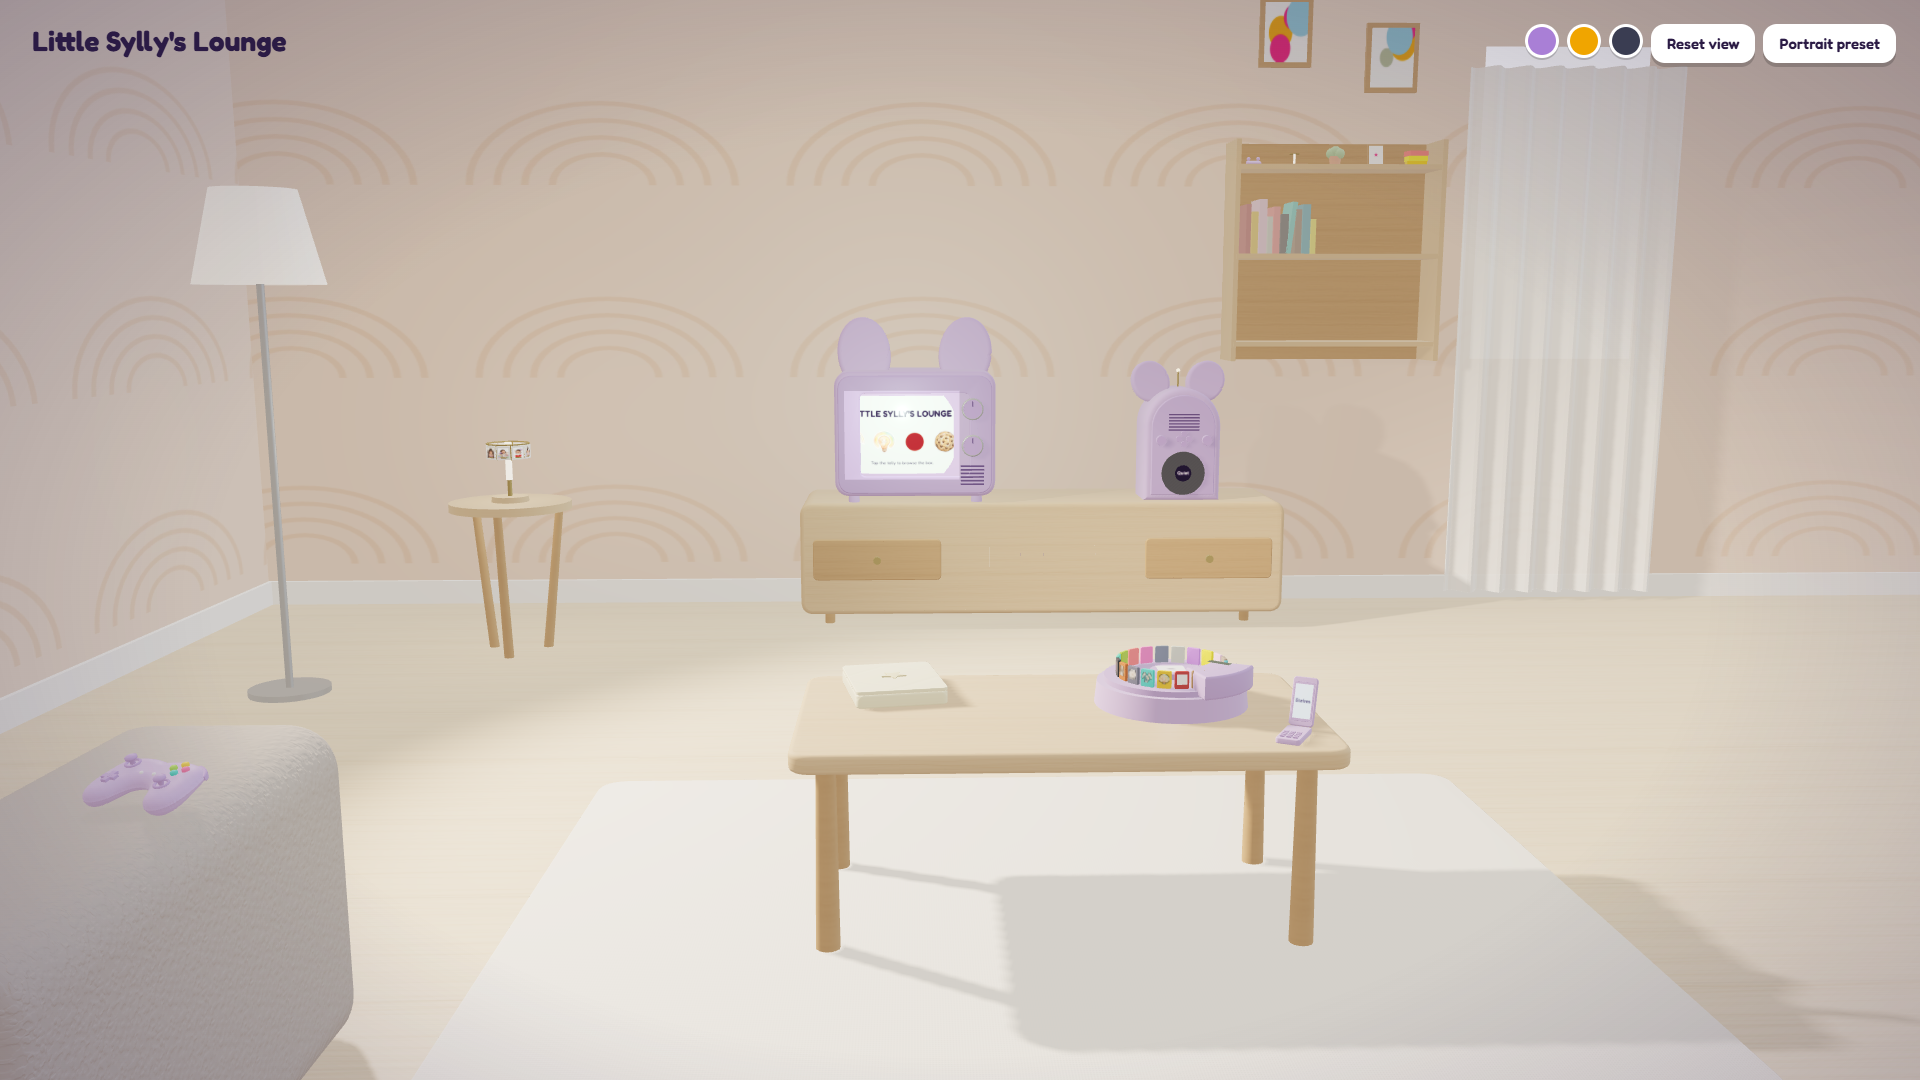
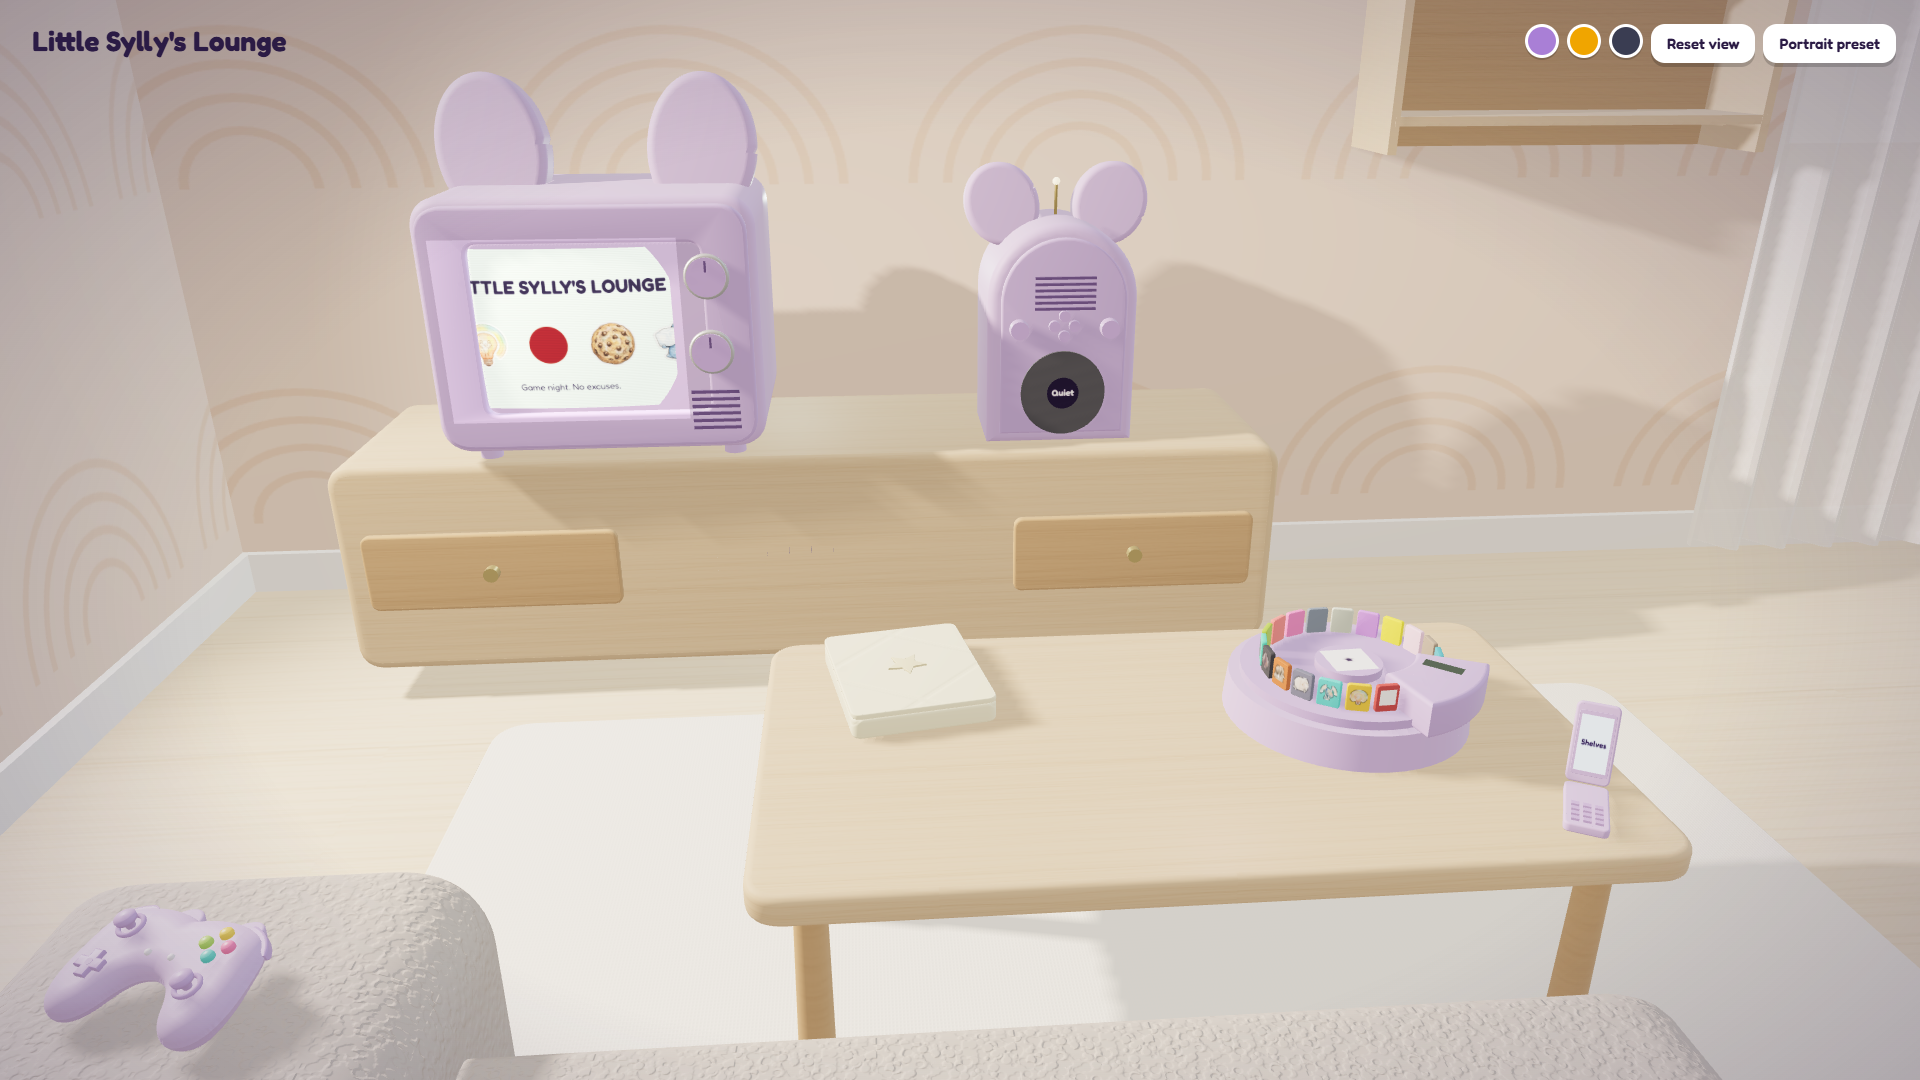
feat(premium): re-block step 1 — compress the room, seat the camera, add the couch seat
The room is now a corner (back wall -1.55, left wall -1.6) with the bench
a metre behind a table that sits right of centre, seen from a seated
camera just behind the table's near edge. Adds the seat cushion the arm
belongs to, so the controller is at our elbow rather than floating.

Also fixes a real reduced-motion bug the new framing exposed: the
hover-OUT tween was unguarded, so un-hovering travelled with the setting
on. The harness only caught it once a prop sat under its first pointer
position.

308 Node checks, 12 visual checks, all green.

diff --git a/wip/premium/prm-room.js b/wip/premium/prm-room.js
@@ -9,7 +9,10 @@
   function prmBuildRoom(lib) {
     const { THREE, mats, tex } = lib;
     const moulded = lib.moulded.bind(lib);
-    const R = { floorY: 0, backZ: -3.0, leftX: -3.0, benchZ: -2.55, benchTopY: 0.52, tableTopY: 0.44, armTopY: 0.58, sideTableTopY: 0.565 };
+    /* The re-block (spec 2026-09-19 § 3.1): a corner about 3.2 m wide and 1.9 m
+       deep, the bench a metre behind a table that sits right of centre, and a
+       seat we are sitting on. Every prop reads its surface from here. */
+    const R = { floorY: 0, backZ: -1.55, leftX: -1.6, benchZ: -1.15, benchTopY: 0.52, tableTopY: 0.44, tableX: 0.35, tableZ: 0.05, armTopY: 0.58, seatTopY: 0.47, sideTableTopY: 0.565 };
     const g = new THREE.Group(); g.name = 'room';
     const add = (name, geo, mat, pos, rot, o = {}) => {
       const m = new THREE.Mesh(geo, mat); m.name = name; m.position.set(pos[0], pos[1], pos[2]);
@@ -18,31 +21,32 @@
     };
     const FLAT = [-Math.PI / 2, 0, 0];   // a moulded slab extrudes along z; this lays it on the floor
 
-    // walls + trim
-    add('wallBack', new THREE.PlaneGeometry(8, 3.2), mats.wall, [0.5, 1.6, R.backZ]);
-    add('wallLeft', new THREE.PlaneGeometry(8, 3.2), mats.wall, [R.leftX, 1.6, -0.2], [0, Math.PI / 2, 0]);
-    add('skirtingBack', new THREE.BoxGeometry(8, 0.1, 0.02), mats.skirting, [0.5, 0.05, R.backZ + 0.01]);
-    add('skirtingLeft', new THREE.BoxGeometry(0.02, 0.1, 8), mats.skirting, [R.leftX + 0.01, 0.05, -0.2]);
-    add('cornice', new THREE.BoxGeometry(8, 0.06, 0.04), mats.skirting, [0.5, 3.17, R.backZ + 0.02]);
+    // walls + trim — the planes overhang the frame; the cornice is the one line that says "room" at the top
+    add('wallBack', new THREE.PlaneGeometry(5.6, 3.2), mats.wall, [0.0, 1.6, R.backZ]);
+    add('wallLeft', new THREE.PlaneGeometry(4.0, 3.2), mats.wall, [R.leftX, 1.6, 0.0], [0, Math.PI / 2, 0]);
+    add('skirtingBack', new THREE.BoxGeometry(5.6, 0.1, 0.02), mats.skirting, [0.0, 0.05, R.backZ + 0.01]);
+    add('skirtingLeft', new THREE.BoxGeometry(0.02, 0.1, 4.0), mats.skirting, [R.leftX + 0.01, 0.05, 0.0]);
+    add('cornice', new THREE.BoxGeometry(5.6, 0.06, 0.04), mats.skirting, [0.0, 3.17, R.backZ + 0.02]);
     add('floor', new THREE.PlaneGeometry(9, 9), mats.floor, [0.5, 0, 0.5], FLAT);
 
-    // rug — receives every table prop's contact shadow
-    add('rug', moulded(2.3, 1.7, 0.012, 0.08, { bevel: 0.004 }), mats.rug, [0.1, 0.006, 0.35], FLAT);
+    // rug — receives every table prop's contact shadow (round in Task 3)
+    add('rug', moulded(2.3, 1.7, 0.012, 0.08, { bevel: 0.004 }), mats.rug, [R.tableX, 0.006, R.tableZ], FLAT);
 
-    // coffee table (top surface = tableTopY)
-    add('tableTop', moulded(1.1, 0.62, 0.04, 0.05), mats.birch, [0.1, R.tableTopY - 0.02, 0.35], FLAT, { cast: true });
+    // coffee table (top surface = tableTopY), right of centre so it is not stacked under the telly
+    add('tableTop', moulded(1.1, 0.62, 0.04, 0.05), mats.birch, [R.tableX, R.tableTopY - 0.02, R.tableZ], FLAT, { cast: true });
     [[-0.48, 0.22], [0.48, 0.22], [-0.48, -0.22], [0.48, -0.22]].forEach(([x, z], i) =>
-      add('tableLeg' + i, new THREE.CylinderGeometry(0.02, 0.025, 0.4, 16), mats.birchDark, [0.1 + x, 0.2, 0.35 + z], null, { cast: true }));
+      add('tableLeg' + i, new THREE.CylinderGeometry(0.02, 0.025, 0.4, 16), mats.birchDark, [R.tableX + x, 0.2, R.tableZ + z], null, { cast: true }));
 
-    // TV bench: body spans y 0.08..0.52, sits on two short legs; the deck lives in the open middle
-    add('bench', moulded(1.9, 0.44, 0.46, 0.05), mats.birch, [0.3, 0.30, R.benchZ], null, { cast: true });
-    add('benchDrawerL', moulded(0.5, 0.16, 0.02, 0.02), mats.birchDark, [-0.35, 0.30, R.benchZ + 0.235]);
-    add('benchDrawerR', moulded(0.5, 0.16, 0.02, 0.02), mats.birchDark, [0.95, 0.30, R.benchZ + 0.235]);
-    add('benchKnobL', new THREE.CylinderGeometry(0.015, 0.015, 0.02, 16), mats.brass, [-0.35, 0.30, R.benchZ + 0.255], [Math.PI / 2, 0, 0]);
-    add('benchKnobR', new THREE.CylinderGeometry(0.015, 0.015, 0.02, 16), mats.brass, [0.95, 0.30, R.benchZ + 0.255], [Math.PI / 2, 0, 0]);
-    [-0.55, 1.15].forEach((x, i) => add('benchLeg' + i, new THREE.CylinderGeometry(0.02, 0.02, 0.08, 12), mats.birchDark, [x, 0.04, R.benchZ]));
-    add('deck', moulded(0.42, 0.1, 0.3, 0.015), mats.cream, [0.3, 0.30, R.benchZ + 0.06], null, { cast: true });
-    for (let i = 0; i < 4; i++) add('deckKey' + i, new THREE.BoxGeometry(0.03, 0.012, 0.02), mats.plum, [0.18 + i * 0.045, 0.315, R.benchZ + 0.215]);
+    // TV bench: body spans y 0.08..0.52 on two short legs; the deck lives in the open middle. Slightly LEFT of centre (the table is right)
+    const BX = -0.15;
+    add('bench', moulded(1.9, 0.44, 0.46, 0.05), mats.birch, [BX, 0.30, R.benchZ], null, { cast: true });
+    add('benchDrawerL', moulded(0.5, 0.16, 0.02, 0.02), mats.birchDark, [BX - 0.65, 0.30, R.benchZ + 0.235]);
+    add('benchDrawerR', moulded(0.5, 0.16, 0.02, 0.02), mats.birchDark, [BX + 0.65, 0.30, R.benchZ + 0.235]);
+    add('benchKnobL', new THREE.CylinderGeometry(0.015, 0.015, 0.02, 16), mats.brass, [BX - 0.65, 0.30, R.benchZ + 0.255], [Math.PI / 2, 0, 0]);
+    add('benchKnobR', new THREE.CylinderGeometry(0.015, 0.015, 0.02, 16), mats.brass, [BX + 0.65, 0.30, R.benchZ + 0.255], [Math.PI / 2, 0, 0]);
+    [BX - 0.85, BX + 0.85].forEach((x, i) => add('benchLeg' + i, new THREE.CylinderGeometry(0.02, 0.02, 0.08, 12), mats.birchDark, [x, 0.04, R.benchZ]));
+    add('deck', moulded(0.42, 0.1, 0.3, 0.015), mats.cream, [BX, 0.30, R.benchZ + 0.06], null, { cast: true });
+    for (let i = 0; i < 4; i++) add('deckKey' + i, new THREE.BoxGeometry(0.03, 0.012, 0.02), mats.plum, [BX - 0.12 + i * 0.045, 0.315, R.benchZ + 0.215]);
 
     // bookshelf unit, wall-mounted right of the bench; books + trinkets are props (prmBuildShelf)
     const S = { x: 1.55, w: 0.85, d: 0.22, ys: [1.12, 1.48, 1.84], side: 0.02 }; S.z = R.backZ + S.d / 2;
@@ -57,8 +61,10 @@
       add('sideTableLeg' + i, new THREE.CylinderGeometry(0.015, 0.018, 0.55, 12), mats.birchDark,
           [-1.7 + Math.sin(a) * 0.15, 0.27, -2.1 + Math.cos(a) * 0.15], [Math.cos(a) * 0.12, 0, -Math.sin(a) * 0.12]); });
 
-    // couch arm, front plane, bottom-left, partly out of frame (top surface = armTopY)
-    add('couchArm', moulded(0.4, 0.58, 0.95, 0.09), mats.fabric, [-1.4, R.armTopY - 0.29, 1.35], null, { cast: true });
+    // the couch we are sitting on: a seat cushion along the bottom of frame (top = seatTopY) and the arm
+    // it belongs to, left of the table, reaching ahead of the seat so its front shows bottom-left
+    add('seat', moulded(1.3, 0.47, 1.0, 0.09), mats.fabric, [0.07, R.seatTopY - 0.235, 1.08], null, { cast: true });
+    add('couchArm', moulded(0.4, 0.58, 0.95, 0.09), mats.fabric, [-0.62, R.armTopY - 0.29, 0.925], null, { cast: true });
 
     // window (the cool fill's visible source) + the wavy curtain in front of it
     add('window', new THREE.PlaneGeometry(0.7, 1.3), mats.window, [2.55, 1.7, R.backZ + 0.005]);

diff --git a/wip/premium/verify-prm-props.js b/wip/premium/verify-prm-props.js
@@ -90,7 +90,7 @@ eq(room.name, 'room', 'room group is named');
 const roomNames = new Set(); room.traverse(o => { if (o.name) roomNames.add(o.name); });
 ['wallBack', 'wallLeft', 'skirtingBack', 'skirtingLeft', 'cornice', 'floor', 'rug', 'tableTop', 'tableLeg0', 'tableLeg3',
  'bench', 'benchDrawerL', 'benchDrawerR', 'benchKnobL', 'benchKnobR', 'deck', 'deckKey3', 'shelfBack', 'shelfSideL', 'shelfSideR',
- 'shelfBoard0', 'shelfBoard1', 'shelfBoard2', 'sideTableTop', 'sideTableLeg2', 'couchArm', 'window', 'curtain',
+ 'shelfBoard0', 'shelfBoard1', 'shelfBoard2', 'sideTableTop', 'sideTableLeg2', 'couchArm', 'seat', 'window', 'curtain',
  'floorLampBase', 'floorLampStem', 'floorLampShade', 'printA', 'printAFace', 'printB', 'printBFace']
   .forEach(n => ok(roomNames.has(n), `room has ${n}`));
 {
@@ -99,14 +99,24 @@ const roomNames = new Set(); room.traverse(o => { if (o.name) roomNames.add(o.na
   const rug = room.getObjectByName('rug'); ok(rug.receiveShadow, 'rug receives shadow');
   const floor = room.getObjectByName('floor'); ok(floor.receiveShadow, 'floor receives shadow');
   const R = room.userData.prmRoom;
-  ['floorY', 'backZ', 'leftX', 'benchZ', 'benchTopY', 'tableTopY', 'armTopY', 'sideTableTopY'].forEach(k => ok(typeof R[k] === 'number', `prmRoom.${k} is a number`));
+  ['floorY', 'backZ', 'leftX', 'benchZ', 'benchTopY', 'tableTopY', 'tableX', 'tableZ', 'armTopY', 'seatTopY'].forEach(k => ok(typeof R[k] === 'number', `prmRoom.${k} is a number`));
   near(R.benchTopY, 0.52, 0.001, 'bench top height'); near(R.tableTopY, 0.44, 0.001, 'table top height');
+  // the re-block (spec 2026-09-19 § 3.1): a corner, not a hall
+  ok(R.backZ > -1.8 && R.backZ < -1.3, `back wall is close (backZ ${R.backZ})`);
+  ok(R.leftX > -1.9 && R.leftX < -1.3, `left wall is close (leftX ${R.leftX})`);
+  ok(R.benchZ - R.tableZ > -1.3 && R.benchZ - R.tableZ < -0.7, `bench sits about a metre behind the table (${(R.tableZ - R.benchZ).toFixed(2)} m)`);
+  ok(R.tableX > 0.2, `table is right of centre (tableX ${R.tableX})`);
+  ok(R.seatTopY > R.tableTopY && R.seatTopY < R.armTopY, 'seat cushion sits between table top and arm top');
   const S = room.userData.prmShelf; eq(S.ys.length, 3, 'three shelf boards');
   room.updateMatrixWorld(true);
   const bb = new THREE.Box3().setFromObject(room.getObjectByName('tableTop'));
   near(bb.max.y, R.tableTopY, 0.001, 'tableTop surface equals prmRoom.tableTopY');
   const arm = new THREE.Box3().setFromObject(room.getObjectByName('couchArm'));
   near(arm.max.y, R.armTopY, 0.002, 'couchArm top equals prmRoom.armTopY');
+  const seat = new THREE.Box3().setFromObject(room.getObjectByName('seat'));
+  near(seat.max.y, R.seatTopY, 0.002, 'seat top equals prmRoom.seatTopY');
+  ok(seat.min.z > R.tableZ + 0.31 - 0.02, 'seat front does not run under the table');
+  ok(arm.min.z < seat.min.z, 'the arm reaches ahead of the seat (a real couch arm)');
   const cur = room.getObjectByName('curtain'); const cb = new THREE.Box3().setFromObject(cur);
   ok(cb.max.y - cb.min.y > 2.0, 'curtain is tall (extruded vertically, not lying flat)');
 }
@@ -269,12 +279,12 @@ section('contracts');
   const inside = (bb, r) => bb.min.x >= r.x[0] && bb.max.x <= r.x[1] && bb.min.z >= r.z[0] && bb.max.z <= r.z[1] && bb.min.y >= r.y[0] - 0.01;
   const R = room.userData.prmRoom;
   const REGIONS = {
-    tv:        { x: [-0.65, 0.25], z: [-2.80, -2.20], y: [R.benchTopY, 1.5] },
-    jukebox:   { x: [ 0.60, 1.10], z: [-2.80, -2.20], y: [R.benchTopY, 1.5] },
-    dial:      { x: [-0.45, 0.65], z: [ 0.04,  0.66], y: [R.tableTopY, 0.8] },
-    binder:    { x: [-0.45, 0.65], z: [ 0.04,  0.66], y: [R.tableTopY, 0.8] },
-    phone:     { x: [-0.45, 0.65], z: [ 0.04,  0.66], y: [R.tableTopY, 0.8] },
-    controller:{ x: [-1.65, -1.05], z: [ 0.85,  1.85], y: [R.armTopY, 1.0] },
+    tv:        { x: [R.tableX - 1.30, R.tableX - 0.50], z: [R.benchZ - 0.30, R.benchZ + 0.30], y: [R.benchTopY, 1.5] },
+    jukebox:   { x: [R.tableX - 0.30, R.tableX + 0.30], z: [R.benchZ - 0.30, R.benchZ + 0.30], y: [R.benchTopY, 1.5] },
+    dial:      { x: [R.tableX - 0.57, R.tableX + 0.57], z: [R.tableZ - 0.33, R.tableZ + 0.33], y: [R.tableTopY, 0.8] },
+    binder:    { x: [R.tableX - 0.57, R.tableX + 0.57], z: [R.tableZ - 0.33, R.tableZ + 0.33], y: [R.tableTopY, 0.8] },
+    phone:     { x: [R.tableX - 0.57, R.tableX + 0.57], z: [R.tableZ - 0.33, R.tableZ + 0.33], y: [R.tableTopY, 0.8] },
+    controller:{ x: [-1.05, -0.35], z: [ 0.30,  1.10], y: [R.armTopY, 1.0] },
     lamp:      { x: [-1.95, -1.45], z: [-2.35, -1.85], y: [R.sideTableTopY, 1.0] },
   };
   Object.entries(REGIONS).forEach(([id, r]) => { const bb = place(id); ok(inside(bb, r), `${id} sits inside its surface region (x ${bb.min.x.toFixed(2)}..${bb.max.x.toFixed(2)}, z ${bb.min.z.toFixed(2)}..${bb.max.z.toFixed(2)}, y ${bb.min.y.toFixed(2)})`); });

diff --git a/wip/premium/prm-scene.js b/wip/premium/prm-scene.js
@@ -8,8 +8,11 @@
 // pure functions above it are what verify-prm-props.js loads under Node.
 // ═══════════════════════════════════════════════════════════════════════════
 (function () {
+  /* Seated on the couch, the table pushed up to our knees: eye height just
+     behind the table's near edge, which is the bottom of frame. Portrait is
+     re-aimed in the re-block's step 6. */
   const PRM_PRESETS = {
-    wide:     { pos: [-0.20, 1.30, 3.40], look: [-0.05, 0.50, -1.55], fov: 40 },
+    wide:     { pos: [-0.05, 1.32, 1.50], look: [0.15, 0.28, -1.05], fov: 46 },
     portrait: { pos: [0.00, 1.55, 1.75], look: [0.00, 0.45,  0.25], fov: 52 },
   };
   const PRM_REQUIRED = ['games', 'stickers', 'design', 'lampPanels', 'music', 'enterTV', 'enterShelves', 'openWorkshop', 'openSound', 'openSwitcher'];
@@ -60,7 +63,7 @@
     renderer.outputEncoding = THREE.sRGBEncoding;
     renderer.toneMapping = THREE.ACESFilmicToneMapping; renderer.toneMappingExposure = 0.80;
     renderer.shadowMap.enabled = true; renderer.shadowMap.type = THREE.PCFSoftShadowMap; renderer.shadowMap.autoUpdate = false;
-    const scene = new THREE.Scene(); scene.background = new THREE.Color('#efe6dc'); scene.fog = new THREE.Fog('#e7dcd0', 6.8, 15);
+    const scene = new THREE.Scene(); scene.background = new THREE.Color('#efe6dc'); scene.fog = new THREE.Fog('#b59a80', 2.8, 6.5);
     scene.environment = prmBuildEnvMap(THREE, renderer);
     const camera = new THREE.PerspectiveCamera(35, 16 / 9, 0.05, 30);
     const lookAt = new THREE.Vector3();
@@ -114,7 +117,12 @@
     const hud = { focus: document.getElementById('prm-focus'), fade: document.getElementById('prm-fade') };
     function setHover(node) {
       if (hovered === node) return;
-      if (hovered) { const h = hovered; hoverTweens.add(h.position.y, h.userData.restY, 150, P.prmEaseOutCubic, v => h.position.y = v); }
+      /* The un-hover must honour reduced motion too — it travels just as visibly as the lift,
+         and it was unguarded until the re-block moved a prop under the harness's first pointer
+         position and the "RAF is idle" check finally saw it. */
+      if (hovered) { const h = hovered;
+        if (reduced()) h.position.y = h.userData.restY;
+        else hoverTweens.add(h.position.y, h.userData.restY, 150, P.prmEaseOutCubic, v => h.position.y = v); }
       hovered = node;
       if (node && !reduced()) hoverTweens.add(node.position.y, node.userData.restY + PRM_HOVER_LIFT, 150, P.prmEaseOutCubic, v => node.position.y = v);
       canvasEl.style.cursor = node ? 'pointer' : ''; shadowDirty = true; wake();

diff --git a/wip/premium/prm-props.js b/wip/premium/prm-props.js
@@ -27,14 +27,16 @@
   const PRM_TAB_ORDER = ['tv-screen', 'jukebox-record', 'dial', 'binder', 'phone', 'controller', 'lamp'];
   /* World placement per prop group. y values sit on the room's surfaces
      (prm-room.js prmRoom): bench top 0.52, table top 0.44, arm top 0.58,
-     side table top 0.565. A builder's group origin is its resting base. */
+     side table top 0.565. x/z mirror prmRoom's tableX/tableZ/benchZ — keep
+     them in step by hand; the harness footprint check is what catches drift.
+     A builder's group origin is its resting base. */
   const PRM_PLACES = {
-    tv:            { pos: [-0.20, 0.52, -2.50] },
-    jukebox:       { pos: [ 0.85, 0.52, -2.50] },
-    dial:          { pos: [ 0.35, 0.44,  0.30] },
-    binder:        { pos: [-0.25, 0.44,  0.20], rot: [0, 0.18, 0] },
-    phone:         { pos: [ 0.55, 0.44,  0.57], rot: [0, -0.5, 0] },
-    controller:    { pos: [-1.30, 0.58,  1.30], rot: [0, -0.35, 0] },
+    tv:            { pos: [-0.55, 0.52, -1.10] },
+    jukebox:       { pos: [ 0.35, 0.52, -1.10] },
+    dial:          { pos: [ 0.60, 0.44,  0.00] },
+    binder:        { pos: [ 0.00, 0.44, -0.10], rot: [0, 0.18, 0] },
+    phone:         { pos: [ 0.80, 0.44,  0.27], rot: [0, -0.5, 0] },
+    controller:    { pos: [-0.62, 0.58,  0.62], rot: [0, -0.35, 0] },
     lamp:          { pos: [-1.70, 0.565, -2.10] },
     shelfContents: { pos: [0, 0, 0] },
   };
